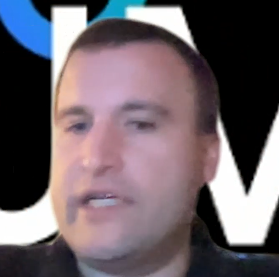
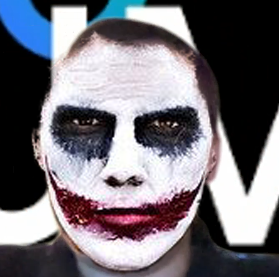
add moles with editied pictures

diff --git a/src/components/Moles.jsx b/src/components/Moles.jsx
@@ -8,6 +8,22 @@ import leo from "../media/leo.jpg";
 import leoHit from "../media/leo-u.jpg";
 import ryan from "../media/Ryan-R.jpg"
 import ryanHit from "../media/Ryan-U.jpg";
+import charles from "../media/charles1.png";
+import charlesHit from "../media/charles2.png";
+import elijah from "../media/elijah1.png";
+import elijahHit from "../media/elijah2.png";
+import joel from "../media/joel1.png";
+import joelHit from "../media/joel2.png";
+import miguel from "../media/miguel1.png";
+import miguelHit from "../media/miguel2.png";
+import matthew from "../media/matthew1.png";
+import matthewhit from "../media/matthew2.png";
+import orquid from "../media/orquidia1.png";
+import orquidHit from "../media/orquidia2.png";
+import rich from "../media/rich1.png";
+import richHit from "../media/rich2.png";
+import nich from "../media/nich1.png";
+import nichHit from "../media/nich2.png";
 import {DefaultContainer} from "./Home";
 var MOLE_SIZE = 10;
 const MoleContainer = styled.div`
@@ -60,7 +76,7 @@ const MolesContainer = styled(DefaultContainer)`
 
 `
 const Moles = ({setMoleHitted, setMole}) => {
-	const moles = [[putin, putinHitted], [trump, trumpHitted], [ryan, ryanHit], [leo, leoHit]];
+	const moles = [[putin, putinHitted], [trump, trumpHitted], [ryan, ryanHit], [leo, leoHit], [charles, charlesHit], [elijah, elijahHit],[joel, joelHit], [miguel, miguelHit], [orquid, orquidHit], [matthew, matthewhit], [rich, richHit], [nich, nichHit]];
 	const [playVisibility, setPlayVisibility] = useState(null);
 	const setTheMole = (index) => {
 		setMole(moles[index][0]);
